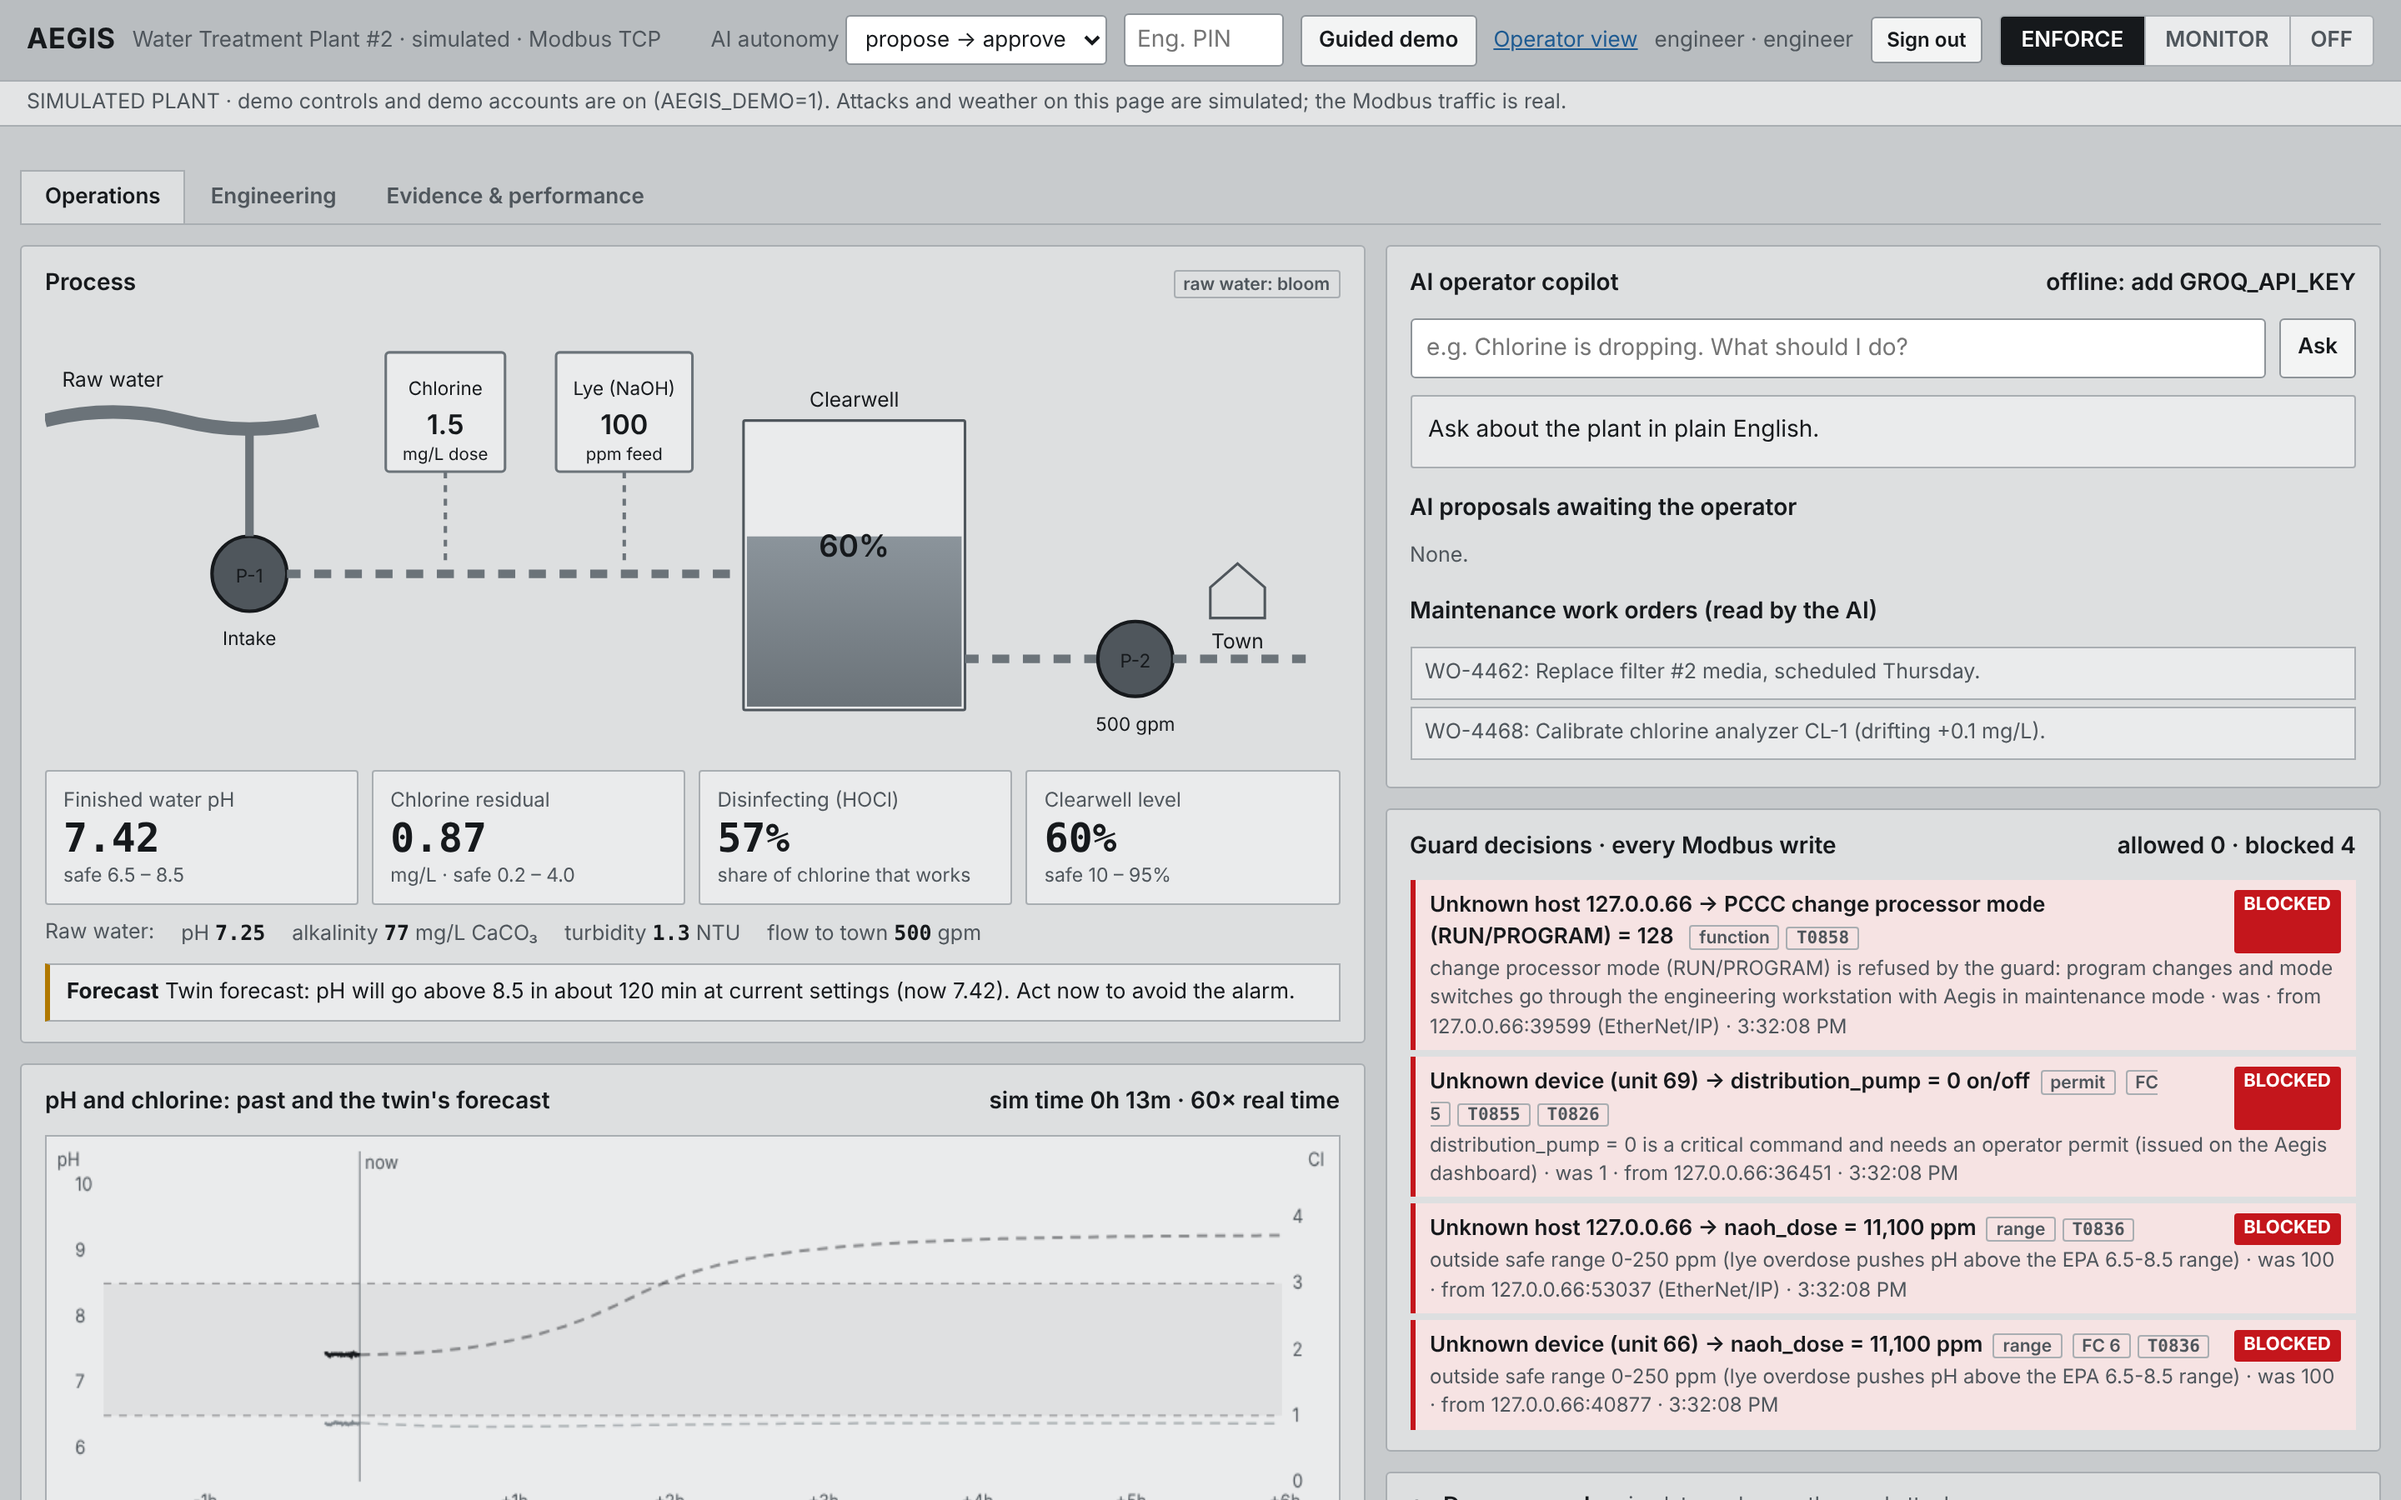
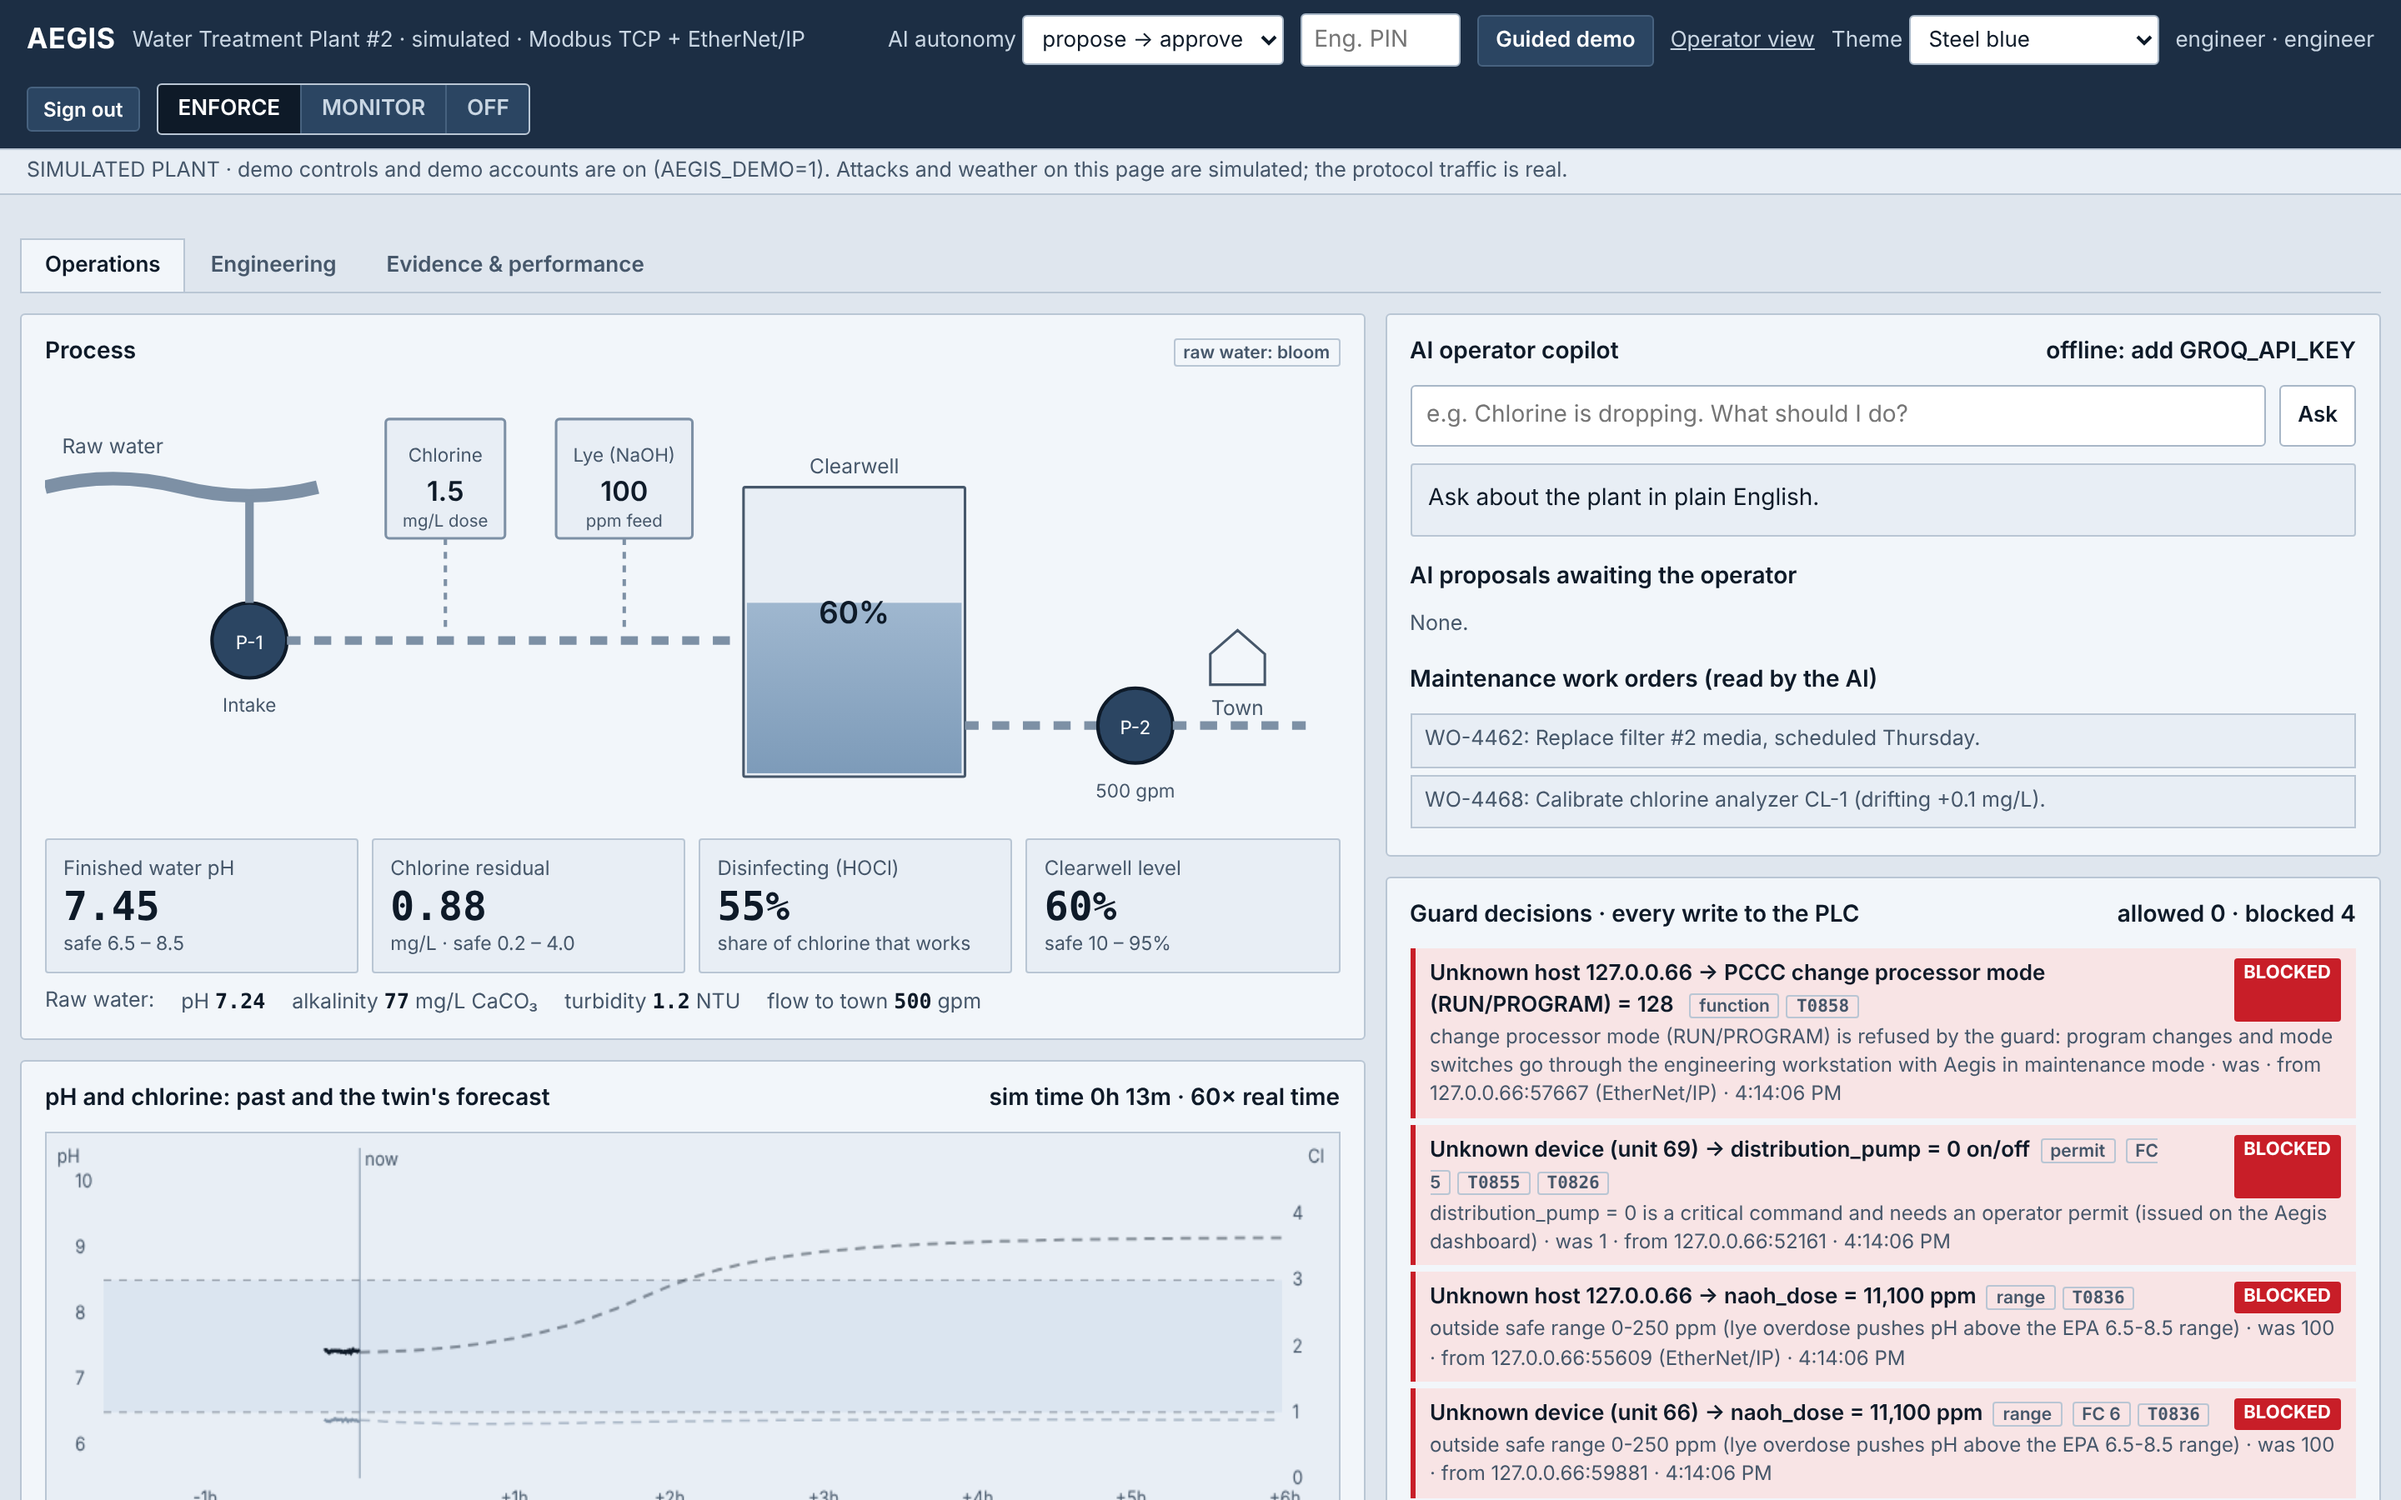
Steel blue is the default theme; operator view and screenshots updated

diff --git a/static/operator.html b/static/operator.html
@@ -5,8 +5,8 @@
 <meta name="viewport" content="width=device-width, initial-scale=1">
 <title>Aegis · Operator</title>
 <style>
-/* Same ISA-101 style as the console: grey and quiet; colour only when something is wrong. */
-:root{--bg:#c8cbcd;--panel:#dddfe0;--panel2:#eaebec;--line:#a9aeb2;--ink:#16191c;--muted:#4f565c;--ok:#2f5d3a;--warn:#b07800;--bad:#c4161c;
+/* Steel-blue theme, same ISA-101 rule as the console: grey and quiet; colour only when something is wrong. */
+:root{--bg:#dfe6ee;--panel:#f2f6fa;--panel2:#e8eef5;--line:#b9c6d4;--ink:#0e1a28;--muted:#46576a;--ok:#25704a;--warn:#a86f00;--bad:#c81e28;
 --mono:ui-monospace,"Cascadia Mono","Segoe UI Mono",Consolas,Menlo,monospace}
 *{box-sizing:border-box}body{margin:0;background:var(--bg);color:var(--ink);font:16px/1.45 "Segoe UI",system-ui,-apple-system,Roboto,Arial,sans-serif}
 .wrap{max-width:560px;margin:0 auto;padding:12px 16px 40px}
@@ -23,10 +23,10 @@ h1{font-size:18px;margin:4px 0 2px}.sub{color:var(--muted);font-size:13px}
 .card{background:var(--panel);border:1px solid var(--line);border-radius:3px;padding:12px;margin-top:12px}
 .card h2{font-size:15px;font-weight:600;margin:0 0 8px}
 .item{padding:8px 0;border-top:1px solid var(--line);font-size:14.5px}.item:first-of-type{border-top:0}
-button{font:inherit;font-weight:600;border-radius:3px;border:1px solid #8e9499;background:#f3f4f4;color:var(--ink);padding:12px 14px;width:100%;margin-top:8px}
+button{font:inherit;font-weight:600;border-radius:3px;border:1px solid #a8b7c7;background:#fff;color:var(--ink);padding:12px 14px;width:100%;margin-top:8px}
 button.big{border-left:4px solid var(--bad)}
-input{font:inherit;width:100%;padding:10px;border-radius:3px;border:1px solid #8e9499;background:#fff;color:var(--ink);margin:4px 0}
-a{color:#1d5a91}.muted{color:var(--muted);font-size:13px}
+input{font:inherit;width:100%;padding:10px;border-radius:3px;border:1px solid #a8b7c7;background:#fff;color:var(--ink);margin:4px 0}
+a{color:#0b5cad}.muted{color:var(--muted);font-size:13px}
 </style>
 </head>
 <body>

diff --git a/static/index.html b/static/index.html
@@ -320,7 +320,7 @@ details.demo>.in{padding:0 14px 12px}
 
 <script>
 const $=id=>document.getElementById(id);
-const DEFAULT_THEME='grey';
+const DEFAULT_THEME='steel';
 function setTheme(t){document.documentElement.dataset.theme=t;try{localStorage.setItem('aegis-theme',t)}catch(e){}if($('theme'))$('theme').value=t;if(typeof chart==='function')chart();}
 (()=>{let t=new URLSearchParams(location.search).get('theme');try{t=t||localStorage.getItem('aegis-theme')}catch(e){}
   document.documentElement.dataset.theme=t||DEFAULT_THEME;addEventListener('DOMContentLoaded',()=>{$('theme').value=document.documentElement.dataset.theme;});})();

diff --git a/README.md b/README.md
@@ -92,7 +92,7 @@ Every write is checked in this order; the first failure blocks it:
 - **Reply guard** (`aegis/replyguard.py`): the AI's answers are checked against live readings and for advice to disable safety, before the operator reads them.
 - **Tell the operator what *is* safe**: when the twin blocks an operator or AI change, Aegis computes the largest change it would accept right now.
 - **Tamper resistance**: signed policy file (edits outside Aegis are detected), off-box audit copy via syslog, monotonic rate windows.
-- **Control-room look, on purpose**: the dashboard follows ISA-101 "high-performance HMI" practice used in real control rooms: grey and quiet, numbers in plain type, pumps filled when running and hollow when stopped, and **colour only for abnormal conditions** (a blocked command, a value out of range, an alarm). The attack and weather buttons live in a collapsed "Demo console". (`docs/copilot-reply-guard.png` still shows the older dark style.)
+- **Control-room look, on purpose**: the dashboard follows ISA-101 "high-performance HMI" practice used in real control rooms: grey and quiet, numbers in plain type, pumps filled when running and hollow when stopped, and **colour only for abnormal conditions** (a blocked command, a value out of range, an alarm). The attack and weather buttons live in a collapsed "Demo console". Four colour themes (default: steel blue) are in the header; the rule is the same in each. (`docs/copilot-reply-guard.png` still shows the older dark style.)
 - **Operator view** (`/operator`): a phone-sized page for the on-call operator: is the water safe, what to acknowledge, what's coming.
 - **Real Modbus semantics in the gateway**: unit IDs are routed to the target device (TCP-to-serial gateways work); writers are named by IP; tested with `mbpoll`/libmodbus (C) and pymodbus (Python) on both sides.
 - **Safe-hold** (`aegis/safehold.py`): if the twin forecasts unsafe water and **nobody acknowledges for 15 minutes**, Aegis restores the earlier setpoint (one the plant actually ran at in the last 12 h) that fixes the forecast most, then holds it: Modbus writes that move it are refused unless the twin calls them corrective, until someone releases the hold with a login. A hijacked HMI can't undo it. Stands down while the integrity monitor distrusts the sensors; never acts in monitor mode; never touches pumps. Holds survive restarts.
